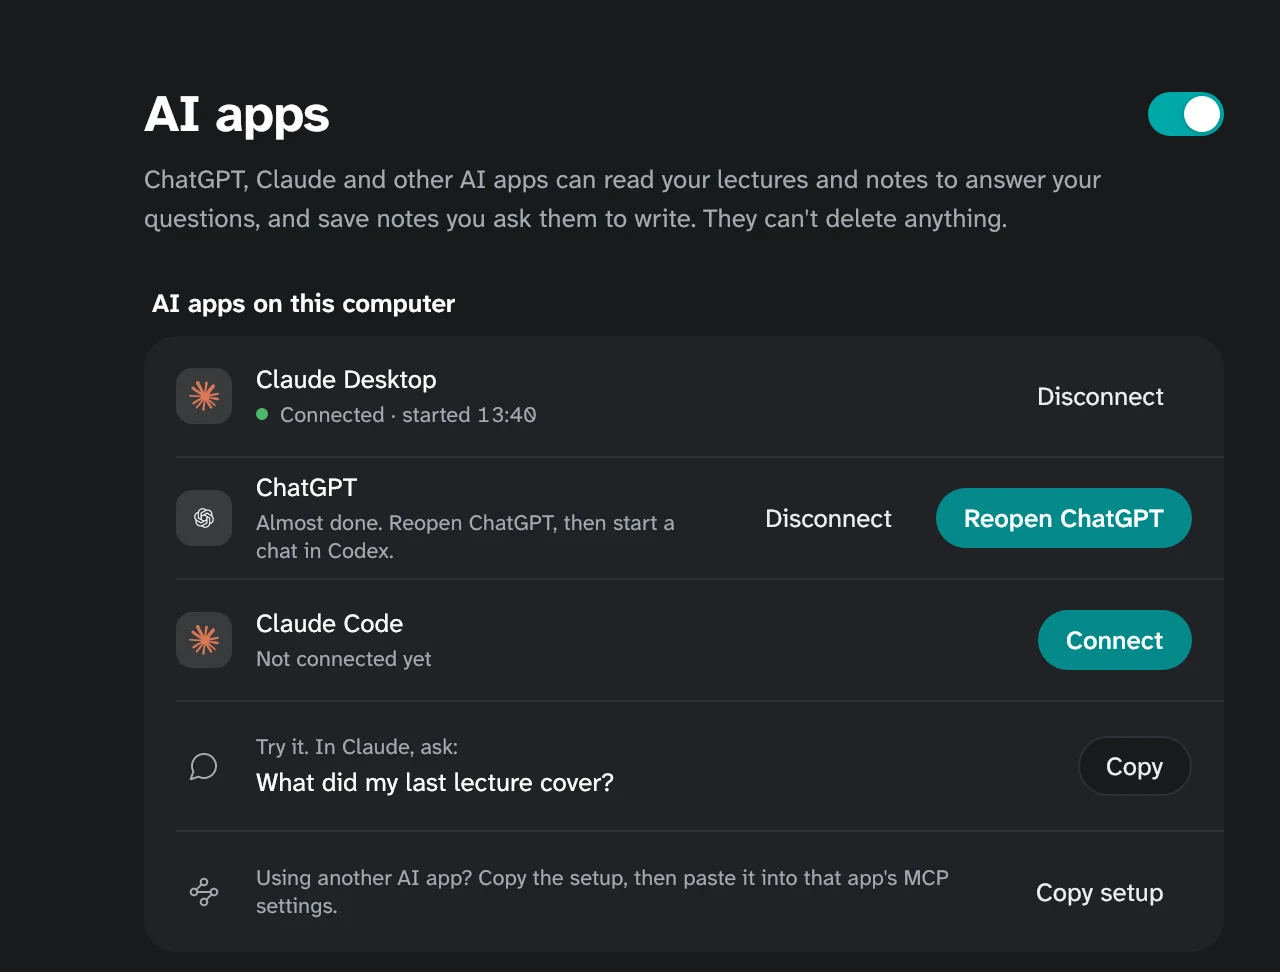
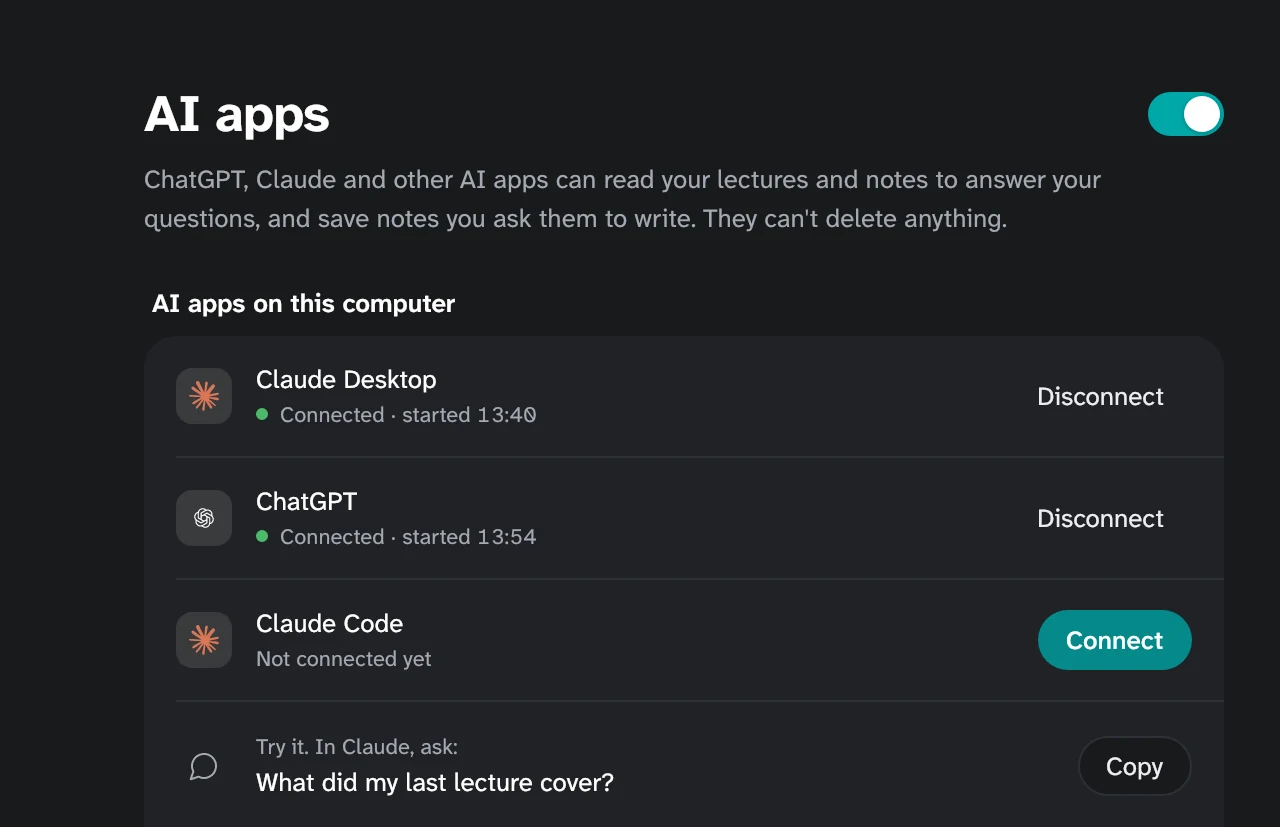
The website is light on every computer (no dark look by the system's setting), and its Connect picture shows AI apps as a student has them set up: Claude and ChatGPT connected, Claude Code one Connect away

diff --git a/site/index.html b/site/index.html
@@ -5,8 +5,7 @@
 <meta name="viewport" content="width=device-width, initial-scale=1">
 <title>Syft Notes: your lectures, turned into notes</title>
 <meta name="description" content="Record a lecture and Syft Notes writes it down on your own computer, then writes the notes: formulas, graphs and diagrams, next to your Canvas due dates. Free and open source, for Mac and Windows.">
-<meta name="theme-color" content="#f4f4f1" media="(prefers-color-scheme: light)">
-<meta name="theme-color" content="#16131d" media="(prefers-color-scheme: dark)">
+<meta name="theme-color" content="#f4f4f1">
 <meta property="og:type" content="website">
 <meta property="og:url" content="https://syftnotes.com/">
 <meta property="og:site_name" content="Syft Notes">
@@ -18,7 +17,7 @@
 <link rel="icon" type="image/png" href="assets/favicon.png?v=4">
 <link rel="apple-touch-icon" href="assets/apple-touch-icon.png?v=4">
 <link rel="preload" href="assets/fonts/AtkinsonHyperlegibleNext-Variable.woff2" as="font" type="font/woff2" crossorigin>
-<link rel="stylesheet" href="assets/site.css?v=4">
+<link rel="stylesheet" href="assets/site.css?v=5">
 <script src="assets/site.js" defer></script>
 </head>
 <body>
@@ -26,7 +25,7 @@
 
 <header class="site-head">
   <div class="wrap">
-    <a class="brand" href="./"><picture><source media="(prefers-color-scheme: dark)" srcset="assets/img/mark-dark.svg?v=4"><img class="tile-light" src="assets/img/tile-light.svg?v=4" alt="" width="34" height="34"></picture><span class="wordmark"><b>syft</b> notes</span></a>
+    <a class="brand" href="./"><picture><img class="tile-light" src="assets/img/tile-light.svg?v=4" alt="" width="34" height="34"></picture><span class="wordmark"><b>syft</b> notes</span></a>
     <nav aria-label="Site">
       <ul class="nav">
         <li><a href="phone/">Phone app</a></li>
@@ -88,7 +87,6 @@
     </div>
     <div class="stage">
       <picture>
-        <source media="(prefers-color-scheme: dark)" srcset="assets/img/home-dark.webp?v=5">
         <img src="assets/img/home.webp?v=5" width="2560" height="1600" fetchpriority="high"
           alt="Syft Notes' Home page: Monday, October 12, the day's classes and meetings under Up next, the newest notes with a line about each, a Record button and an Ask bar, and the classes, clubs and what's coming up down the side.">
       </picture>
@@ -113,7 +111,6 @@
         </ul>
     </div>
     <figure class="card"><picture>
-      <source media="(prefers-color-scheme: dark)" srcset="assets/img/setup-dark.webp?v=5">
       <img src="assets/img/setup.webp?v=5" width="1120" height="1240" loading="lazy"
       alt="Syft Notes' first window: the pixel s and the syft notes wordmark, Record your lectures. Get the notes., a Get started button, and Open Syft Notes when you log in ticked."></picture></figure>
   </div>
@@ -132,7 +129,6 @@
         </ul>
     </div>
     <figure class="card"><picture>
-      <source media="(prefers-color-scheme: dark)" srcset="assets/img/record-dark.webp?v=5">
       <img src="assets/img/record.webp?v=5" width="1568" height="1328" loading="lazy"
       alt="A Machine Learning lecture being recorded: the recording bar with its time, the sound level, Pause and Stop, and the student's own notes typed under Notes as it records."></picture></figure>
   </div>
@@ -151,7 +147,6 @@
         </ul>
     </div>
     <figure class="card"><picture>
-      <source media="(prefers-color-scheme: dark)" srcset="assets/img/notes-dark.webp?v=5">
       <img src="assets/img/notes.webp?v=5" width="1568" height="1096" loading="lazy"
       alt="The notes for 'The cardiac cycle and cardiac output': a summary, then the key points, with cardiac output and mean arterial pressure written as formulas."></picture></figure>
   </div>
@@ -170,7 +165,6 @@
         </ul>
     </div>
     <figure class="card"><picture>
-      <source media="(prefers-color-scheme: dark)" srcset="assets/img/first-notes-dark.webp?v=5">
       <img src="assets/img/first-notes.webp?v=5" width="1568" height="1076" loading="lazy"
       alt="A first lecture's page: Get study notes from this lecture, with Continue with Google, then Claude and ChatGPT, and Other free way: copy and paste."></picture></figure>
   </div>
@@ -184,7 +178,6 @@
       <p>Maths is written the way it was on the board, in proper notation, with each step of a worked example in the order it was done.</p>
     </div>
     <figure class="card"><picture>
-      <source media="(prefers-color-scheme: dark)" srcset="assets/img/formulas-dark.webp?v=5">
       <img src="assets/img/formulas.webp?v=5" width="1568" height="643" loading="lazy"
       alt="Formulas in the notes: a dose worked out as desired over have times quantity, and mean arterial pressure worked through line by line to 93.3 mmHg."></picture></figure>
   </div>
@@ -198,7 +191,6 @@
       <p>When a lecture is about a curve, the notes draw it from its formula. Move a slider, or press play, and see what each number does.</p>
     </div>
     <figure class="card"><picture>
-      <source media="(prefers-color-scheme: dark)" srcset="assets/img/graph-dark.webp?v=5">
       <img src="assets/img/graph.webp?v=5" width="1568" height="1086" loading="lazy"
       alt="A graph in the notes: the sigmoid with its tangent at zero and a reading pinned on the curve, Explain this, Quiz me and Where was this said?, and a slider for its steepness."></picture></figure>
   </div>
@@ -217,11 +209,9 @@
     </div>
     <div class="cards">
       <figure class="card"><picture>
-        <source media="(prefers-color-scheme: dark)" srcset="assets/img/heart-dark.webp?v=5">
         <img src="assets/img/heart.webp?v=5" width="1568" height="1108" loading="lazy"
         alt="A labelled drawing of the heart cut open in the notes: the aorta, the superior vena cava, both atria and ventricles, the valves and the pulmonary veins."></picture></figure>
       <figure class="card"><picture>
-        <source media="(prefers-color-scheme: dark)" srcset="assets/img/cycle-dark.webp?v=5">
         <img src="assets/img/cycle.webp?v=5" width="1568" height="674" loading="lazy"
         alt="A diagram of the five phases of the cardiac cycle as a loop of boxes joined by arrows."></picture></figure>
     </div>
@@ -242,7 +232,6 @@
         </ul>
     </div>
     <figure class="card"><picture>
-      <source media="(prefers-color-scheme: dark)" srcset="assets/img/due-dark.webp?v=5">
       <img src="assets/img/due.webp?v=5" width="1996" height="1548" loading="lazy"
       alt="The Due page: October as a calendar, with each class's assignments, quizzes and projects on the days they're due, in the class's colour, and what's missing."></picture></figure>
   </div>
@@ -261,7 +250,6 @@
         </ul>
     </div>
     <figure class="card"><picture>
-      <source media="(prefers-color-scheme: dark)" srcset="assets/img/ask-dark.webp?v=5">
       <img src="assets/img/ask.webp?v=5" width="1328" height="549" loading="lazy"
       alt="An answer to 'What's a normal MAP?': 70 to 100 mmHg, with its formula, from Claude, with the minutes of the lecture it came from, above the Ask bar."></picture></figure>
   </div>
@@ -279,9 +267,8 @@
         </ul>
     </div>
     <figure class="card"><picture>
-      <source media="(prefers-color-scheme: dark)" srcset="assets/img/ai-apps-dark.webp?v=5">
-      <img src="assets/img/ai-apps.webp?v=5" width="1280" height="972" loading="lazy"
-      alt="Settings, AI apps: Claude Desktop connected, ChatGPT almost done with a Reopen ChatGPT button, Claude Code with a Connect button, and a question to try in Claude."></picture></figure>
+      <img src="assets/img/ai-apps.webp?v=6" width="1280" height="827" loading="lazy"
+      alt="Settings, AI apps: Claude Desktop and ChatGPT connected, Claude Code one Connect button away, and a question to try in Claude."></picture></figure>
   </div>
 </article>
 
@@ -363,7 +350,7 @@
 <footer class="site-foot">
   <div class="wrap">
     <div>
-      <a class="brand" href="./"><picture><source media="(prefers-color-scheme: dark)" srcset="assets/img/mark-dark.svg?v=4"><img class="tile-light" src="assets/img/tile-light.svg?v=4" alt="" width="28" height="28"></picture><span class="wordmark"><b>syft</b> notes</span></a>
+      <a class="brand" href="./"><picture><img class="tile-light" src="assets/img/tile-light.svg?v=4" alt="" width="28" height="28"></picture><span class="wordmark"><b>syft</b> notes</span></a>
       <p>Your own lecture library. Free and open source under the MIT licence.</p>
     </div>
     <ul class="foot-links">

diff --git a/site/assets/site.css b/site/assets/site.css
@@ -28,7 +28,7 @@
 }
 
 :root {
-  color-scheme: light dark;
+  color-scheme: light;
   /* The pixel s's colours. They stay as they are in the dark, as they do on the dark app icon. */
   --lilac: #cdbdff;
   --sky: #a3daf2;
@@ -64,25 +64,6 @@
   --cell-r: 0.18rem;
 }
 
-@media (prefers-color-scheme: dark) {
-  :root {
-    /* The dark tile's colours: ink, its mesh and ghost cells. */
-    --page: #16131d;
-    --surface: #1e1b26;
-    --mesh: #24212d;
-    --line: #2e2a39;
-    --line-2: #3b3648;
-    --ink: #f6f4ef;
-    --ink-2: #d2cfd8;
-    --ink-3: #a6a3ae;
-    --on-ink: #16131d;
-    --band: #1e1b26;
-    --band-line: #2e2a39;
-    --hl: #685f83;
-    --shadow: 0 1px 2px rgb(0 0 0 / 0.35), 0 14px 34px -14px rgb(0 0 0 / 0.6);
-    --lift: 0 1px 2px rgb(0 0 0 / 0.35), 0 24px 60px -24px rgb(0 0 0 / 0.7);
-  }
-}
 
 *, *::before, *::after { box-sizing: border-box; }
 /* What the script hides stays hidden, buttons too (their display would otherwise win over the attribute). */
@@ -142,7 +123,6 @@ mark, .hl {
 .brand picture, .brand img { display: block; }
 .brand img { width: 34px; height: 34px; object-fit: contain; }
 .brand .tile-light { border-radius: 8px; box-shadow: 0 0 0 1px var(--line); }
-@media (prefers-color-scheme: dark) { .brand .tile-light { border-radius: 0; box-shadow: none; } }
 .wordmark { font: 400 1.3rem/1 "Archivo", var(--font); letter-spacing: -0.02em; text-transform: lowercase; color: var(--ink); white-space: nowrap; }
 .wordmark b { font-weight: 900; font-style: italic; }
 .nav { display: flex; align-items: center; gap: 0.2rem; list-style: none; margin: 0; padding: 0; }
@@ -191,10 +171,6 @@ mark, .hl {
 .hero-mark .tile svg { display: block; width: 100%; height: 100%; }
 .hero-mark .tile-light { background: #fff; box-shadow: 0 0 0 1px var(--line), var(--lift); }
 .hero-mark .tile-dark { display: none; background: var(--black); box-shadow: 0 0 0 1px var(--band-line), var(--lift); }
-@media (prefers-color-scheme: dark) {
-  .hero-mark .tile-light { display: none; }
-  .hero-mark .tile-dark { display: block; }
-}
 /* The light mesh only shows while the bits are sieved (the light look has no grid behind it). */
 .sv-mesh { opacity: 0; }
 
@@ -268,9 +244,6 @@ mark, .hl {
 /* The whole app once, its window on the canvas. */
 .stage { margin: clamp(2.5rem, 6vw, 4rem) 0 0; }
 .stage img { margin: 0 auto; width: 100%; filter: drop-shadow(0 1px 2px rgb(22 19 29 / 0.1)) drop-shadow(0 24px 40px rgb(22 19 29 / 0.18)); }
-@media (prefers-color-scheme: dark) {
-  .stage img { filter: drop-shadow(0 0 1px rgb(255 255 255 / 0.12)) drop-shadow(0 24px 40px rgb(0 0 0 / 0.5)); }
-}
 
 /* What it does: one white page with a hairline round it, as the app's own page sits on its canvas, and each thing the
    app does a row of it, split by hairlines like the notes on Home. Each row's colour is one of the s's. */
@@ -329,7 +302,6 @@ section { padding: clamp(4rem, 9vw, 6.5rem) 0; }
 
 /* The privacy promise, on the app icon's ink. */
 .night { background: var(--band); color: #f6f4ef; }
-@media (prefers-color-scheme: dark) { .night { box-shadow: inset 0 1px 0 var(--band-line), inset 0 -1px 0 var(--band-line); } }
 .night h2 { max-width: 16ch; font-size: clamp(2.3rem, 1.2rem + 4vw, 4.2rem); letter-spacing: -0.04em; line-height: 0.98; }
 .night a { color: #fff; text-decoration-color: var(--mustard); }
 .night :focus-visible { outline-color: #fff; }

diff --git a/site/privacy/index.html b/site/privacy/index.html
@@ -5,8 +5,7 @@
 <meta name="viewport" content="width=device-width, initial-scale=1">
 <title>Privacy policy · Syft Notes</title>
 <meta name="description" content="Syft Notes' privacy policy: everything stays on your own computers. What the app reads from Google Calendar, Microsoft calendars and Canvas, what it does with it, and how to take it back.">
-<meta name="theme-color" content="#f4f4f1" media="(prefers-color-scheme: light)">
-<meta name="theme-color" content="#16131d" media="(prefers-color-scheme: dark)">
+<meta name="theme-color" content="#f4f4f1">
 <meta property="og:type" content="article">
 <meta property="og:url" content="https://syftnotes.com/privacy/">
 <meta property="og:site_name" content="Syft Notes">
@@ -17,7 +16,7 @@
 <link rel="canonical" href="https://syftnotes.com/privacy/">
 <link rel="icon" type="image/png" href="../assets/favicon.png?v=4">
 <link rel="apple-touch-icon" href="../assets/apple-touch-icon.png?v=4">
-<link rel="stylesheet" href="../assets/site.css?v=4">
+<link rel="stylesheet" href="../assets/site.css?v=5">
 <script src="../assets/site.js" defer></script>
 </head>
 <body>
@@ -25,7 +24,7 @@
 
 <header class="site-head">
   <div class="wrap">
-    <a class="brand" href="../"><picture><source media="(prefers-color-scheme: dark)" srcset="../assets/img/mark-dark.svg?v=4"><img class="tile-light" src="../assets/img/tile-light.svg?v=4" alt="" width="34" height="34"></picture><span class="wordmark"><b>syft</b> notes</span></a>
+    <a class="brand" href="../"><picture><img class="tile-light" src="../assets/img/tile-light.svg?v=4" alt="" width="34" height="34"></picture><span class="wordmark"><b>syft</b> notes</span></a>
     <nav aria-label="Site">
       <ul class="nav">
         <li><a href="../phone/">Phone app</a></li>
@@ -300,7 +299,7 @@
 <footer class="site-foot">
   <div class="wrap">
     <div>
-      <a class="brand" href="../"><picture><source media="(prefers-color-scheme: dark)" srcset="../assets/img/mark-dark.svg?v=4"><img class="tile-light" src="../assets/img/tile-light.svg?v=4" alt="" width="28" height="28"></picture><span class="wordmark"><b>syft</b> notes</span></a>
+      <a class="brand" href="../"><picture><img class="tile-light" src="../assets/img/tile-light.svg?v=4" alt="" width="28" height="28"></picture><span class="wordmark"><b>syft</b> notes</span></a>
       <p>Your own lecture library. Free and open source under the MIT licence.</p>
     </div>
     <ul class="foot-links">

diff --git a/site/phone/index.html b/site/phone/index.html
@@ -5,8 +5,7 @@
 <meta name="viewport" content="width=device-width, initial-scale=1">
 <title>Get the phone app · Syft Notes</title>
 <meta name="description" content="Put your Syft Notes library on your iPhone, iPad or Android phone: install Tailscale, add the phone in Settings, scan the code, and add it to your home screen.">
-<meta name="theme-color" content="#f4f4f1" media="(prefers-color-scheme: light)">
-<meta name="theme-color" content="#16131d" media="(prefers-color-scheme: dark)">
+<meta name="theme-color" content="#f4f4f1">
 <meta property="og:type" content="article">
 <meta property="og:url" content="https://syftnotes.com/phone/">
 <meta property="og:site_name" content="Syft Notes">
@@ -17,7 +16,7 @@
 <link rel="canonical" href="https://syftnotes.com/phone/">
 <link rel="icon" type="image/png" href="../assets/favicon.png?v=4">
 <link rel="apple-touch-icon" href="../assets/apple-touch-icon.png?v=4">
-<link rel="stylesheet" href="../assets/site.css?v=4">
+<link rel="stylesheet" href="../assets/site.css?v=5">
 <script src="../assets/site.js" defer></script>
 </head>
 <body>
@@ -25,7 +24,7 @@
 
 <header class="site-head">
   <div class="wrap">
-    <a class="brand" href="../"><picture><source media="(prefers-color-scheme: dark)" srcset="../assets/img/mark-dark.svg?v=4"><img class="tile-light" src="../assets/img/tile-light.svg?v=4" alt="" width="34" height="34"></picture><span class="wordmark"><b>syft</b> notes</span></a>
+    <a class="brand" href="../"><picture><img class="tile-light" src="../assets/img/tile-light.svg?v=4" alt="" width="34" height="34"></picture><span class="wordmark"><b>syft</b> notes</span></a>
     <nav aria-label="Site">
       <ul class="nav">
         <li><a href="./" aria-current="page">Phone app</a></li>
@@ -181,7 +180,7 @@
 <footer class="site-foot">
   <div class="wrap">
     <div>
-      <a class="brand" href="../"><picture><source media="(prefers-color-scheme: dark)" srcset="../assets/img/mark-dark.svg?v=4"><img class="tile-light" src="../assets/img/tile-light.svg?v=4" alt="" width="28" height="28"></picture><span class="wordmark"><b>syft</b> notes</span></a>
+      <a class="brand" href="../"><picture><img class="tile-light" src="../assets/img/tile-light.svg?v=4" alt="" width="28" height="28"></picture><span class="wordmark"><b>syft</b> notes</span></a>
       <p>Your own lecture library. Free and open source under the MIT licence.</p>
     </div>
     <ul class="foot-links">

diff --git a/site/terms/index.html b/site/terms/index.html
@@ -5,8 +5,7 @@
 <meta name="viewport" content="width=device-width, initial-scale=1">
 <title>Terms of use · Syft Notes</title>
 <meta name="description" content="The terms for Syft Notes: free, open-source software under the MIT licence, provided as is. Check your notes, and record only where you're allowed to.">
-<meta name="theme-color" content="#f4f4f1" media="(prefers-color-scheme: light)">
-<meta name="theme-color" content="#16131d" media="(prefers-color-scheme: dark)">
+<meta name="theme-color" content="#f4f4f1">
 <meta property="og:type" content="article">
 <meta property="og:url" content="https://syftnotes.com/terms/">
 <meta property="og:site_name" content="Syft Notes">
@@ -17,7 +16,7 @@
 <link rel="canonical" href="https://syftnotes.com/terms/">
 <link rel="icon" type="image/png" href="../assets/favicon.png?v=4">
 <link rel="apple-touch-icon" href="../assets/apple-touch-icon.png?v=4">
-<link rel="stylesheet" href="../assets/site.css?v=4">
+<link rel="stylesheet" href="../assets/site.css?v=5">
 <script src="../assets/site.js" defer></script>
 </head>
 <body>
@@ -25,7 +24,7 @@
 
 <header class="site-head">
   <div class="wrap">
-    <a class="brand" href="../"><picture><source media="(prefers-color-scheme: dark)" srcset="../assets/img/mark-dark.svg?v=4"><img class="tile-light" src="../assets/img/tile-light.svg?v=4" alt="" width="34" height="34"></picture><span class="wordmark"><b>syft</b> notes</span></a>
+    <a class="brand" href="../"><picture><img class="tile-light" src="../assets/img/tile-light.svg?v=4" alt="" width="34" height="34"></picture><span class="wordmark"><b>syft</b> notes</span></a>
     <nav aria-label="Site">
       <ul class="nav">
         <li><a href="../phone/">Phone app</a></li>
@@ -92,7 +91,7 @@
 <footer class="site-foot">
   <div class="wrap">
     <div>
-      <a class="brand" href="../"><picture><source media="(prefers-color-scheme: dark)" srcset="../assets/img/mark-dark.svg?v=4"><img class="tile-light" src="../assets/img/tile-light.svg?v=4" alt="" width="28" height="28"></picture><span class="wordmark"><b>syft</b> notes</span></a>
+      <a class="brand" href="../"><picture><img class="tile-light" src="../assets/img/tile-light.svg?v=4" alt="" width="28" height="28"></picture><span class="wordmark"><b>syft</b> notes</span></a>
       <p>Your own lecture library. Free and open source under the MIT licence.</p>
     </div>
     <ul class="foot-links">

diff --git a/site/support/index.html b/site/support/index.html
@@ -5,8 +5,7 @@
 <meta name="viewport" content="width=device-width, initial-scale=1">
 <title>Support · Syft Notes</title>
 <meta name="description" content="Get help with Syft Notes: report a problem or ask a question on GitHub, report a security problem privately, and fixes worth trying first.">
-<meta name="theme-color" content="#f4f4f1" media="(prefers-color-scheme: light)">
-<meta name="theme-color" content="#16131d" media="(prefers-color-scheme: dark)">
+<meta name="theme-color" content="#f4f4f1">
 <meta property="og:type" content="article">
 <meta property="og:url" content="https://syftnotes.com/support/">
 <meta property="og:site_name" content="Syft Notes">
@@ -17,7 +16,7 @@
 <link rel="canonical" href="https://syftnotes.com/support/">
 <link rel="icon" type="image/png" href="../assets/favicon.png?v=4">
 <link rel="apple-touch-icon" href="../assets/apple-touch-icon.png?v=4">
-<link rel="stylesheet" href="../assets/site.css?v=4">
+<link rel="stylesheet" href="../assets/site.css?v=5">
 <script src="../assets/site.js" defer></script>
 </head>
 <body>
@@ -25,7 +24,7 @@
 
 <header class="site-head">
   <div class="wrap">
-    <a class="brand" href="../"><picture><source media="(prefers-color-scheme: dark)" srcset="../assets/img/mark-dark.svg?v=4"><img class="tile-light" src="../assets/img/tile-light.svg?v=4" alt="" width="34" height="34"></picture><span class="wordmark"><b>syft</b> notes</span></a>
+    <a class="brand" href="../"><picture><img class="tile-light" src="../assets/img/tile-light.svg?v=4" alt="" width="34" height="34"></picture><span class="wordmark"><b>syft</b> notes</span></a>
     <nav aria-label="Site">
       <ul class="nav">
         <li><a href="../phone/">Phone app</a></li>
@@ -104,7 +103,7 @@
 <footer class="site-foot">
   <div class="wrap">
     <div>
-      <a class="brand" href="../"><picture><source media="(prefers-color-scheme: dark)" srcset="../assets/img/mark-dark.svg?v=4"><img class="tile-light" src="../assets/img/tile-light.svg?v=4" alt="" width="28" height="28"></picture><span class="wordmark"><b>syft</b> notes</span></a>
+      <a class="brand" href="../"><picture><img class="tile-light" src="../assets/img/tile-light.svg?v=4" alt="" width="28" height="28"></picture><span class="wordmark"><b>syft</b> notes</span></a>
       <p>Your own lecture library. Free and open source under the MIT licence.</p>
     </div>
     <ul class="foot-links">

diff --git a/site/404.html b/site/404.html
@@ -10,7 +10,7 @@
      / on Firebase Hosting or the custom domain, or /study-stash/ under <user>.github.io. -->
 <script>document.write('<base href="' + (/^\/study-stash(\/|$)/.test(location.pathname) ? '/study-stash/' : '/') + '">');</script>
 <link rel="icon" type="image/png" href="assets/favicon.png?v=4">
-<link rel="stylesheet" href="assets/site.css?v=4">
+<link rel="stylesheet" href="assets/site.css?v=5">
 </head>
 <body>
 <main id="main" class="lost">

diff --git a/engine/tests/StudyStash.App.Tests/SiteShots.cs b/engine/tests/StudyStash.App.Tests/SiteShots.cs
@@ -205,19 +205,32 @@ public class SiteShots
     /// <summary>Settings → AI apps: Claude Desktop and ChatGPT connected, Claude Code with its Connect button.</summary>
     static void AiApps(ThemeVariant t)
     {
-        // Each button as it is in the app, where every row's Connect, Reopen and Disconnect do something.
+        // As a student sees it once it's set up: Claude and ChatGPT connected, Claude Code one Connect away. Each
+        // button as it is in the app, where every row's Connect and Disconnect do something.
         var access = AiShots.AccessModel();
-        foreach (var row in access.Apps)
+        access.Apps.Clear();
+        var now = new DateTime(2026, 10, 4, 14, 0, 0);
+        foreach (var (id, name, connected, started) in new (string, string, bool, DateTime?)[]
         {
+            ("claude-desktop", "Claude Desktop", true, now.AddMinutes(-20)),
+            ("codex", "ChatGPT", true, now.AddMinutes(-6)),
+            ("claude-code", "Claude Code", false, null),
+        })
+        {
+            var row = new AiAppRow { Id = id, Name = name, First = access.Apps.Count == 0 };
+            row.Show(new Services.AiAppState(id, name, true, connected, false, connected ? now.AddHours(-2) : null, started, "", CanReopen: false), now);
             row.Connect = new AsyncRelayCommand(() => Task.CompletedTask);
-            row.Reopen = new AsyncRelayCommand(() => Task.CompletedTask);
             row.Disconnect = new AsyncRelayCommand(() => Task.CompletedTask);
+            access.Apps.Add(row);
         }
         var page = new Border { Padding = new Thickness(32, 28), Child = new MacAiAccess { DataContext = access, Width = 620 } };
         page.Bind(Border.BackgroundProperty, page.GetResourceObservable("Surface"));
         var window = Stage(page, t, null);
         var at = Bounds(window, page);
-        Save("ai-apps", t, window, new Rect(at.X, at.Y, at.Width - 44, Math.Min(at.Height, 486)));
+        // Down to the Try it row: the setup to copy for other AI apps (their MCP settings) is for the few who need it.
+        var other = window.GetVisualDescendants().OfType<TextBlock>().FirstOrDefault(b => b.Text?.StartsWith("Using another AI app", StringComparison.Ordinal) == true);
+        double bottom = other is null ? Math.Min(at.Height, 486) : Bounds(window, other).Y - at.Y - 18;
+        Save("ai-apps", t, window, new Rect(at.X, at.Y, at.Width - 44, bottom));
     }
 
     // --- the stage ---------------------------------------------------------------------------------------------------
